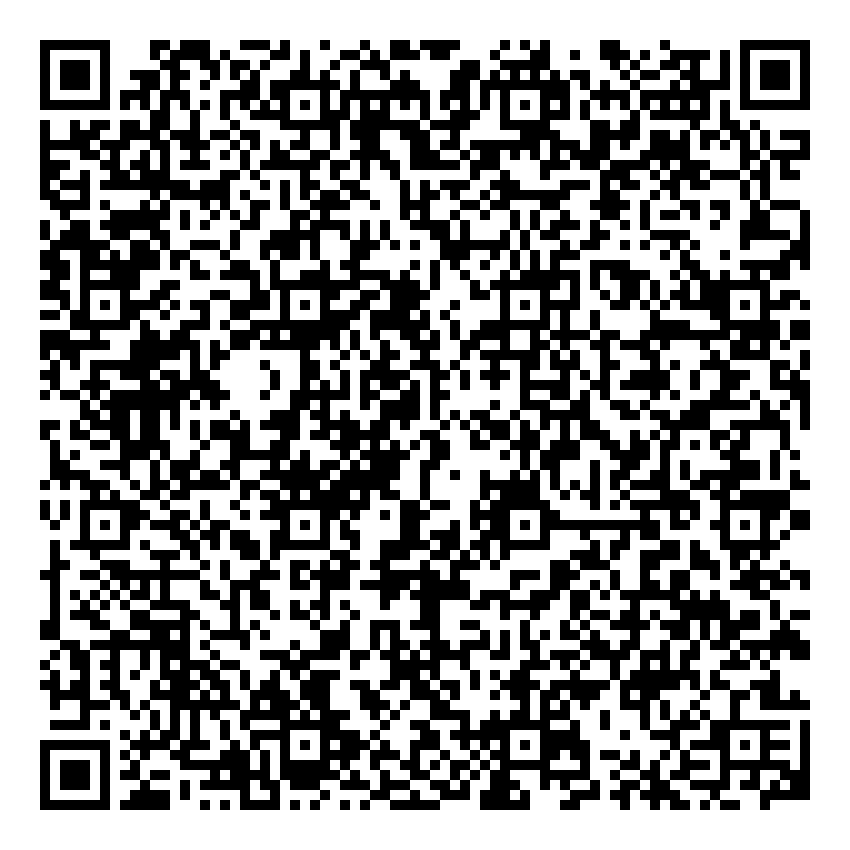
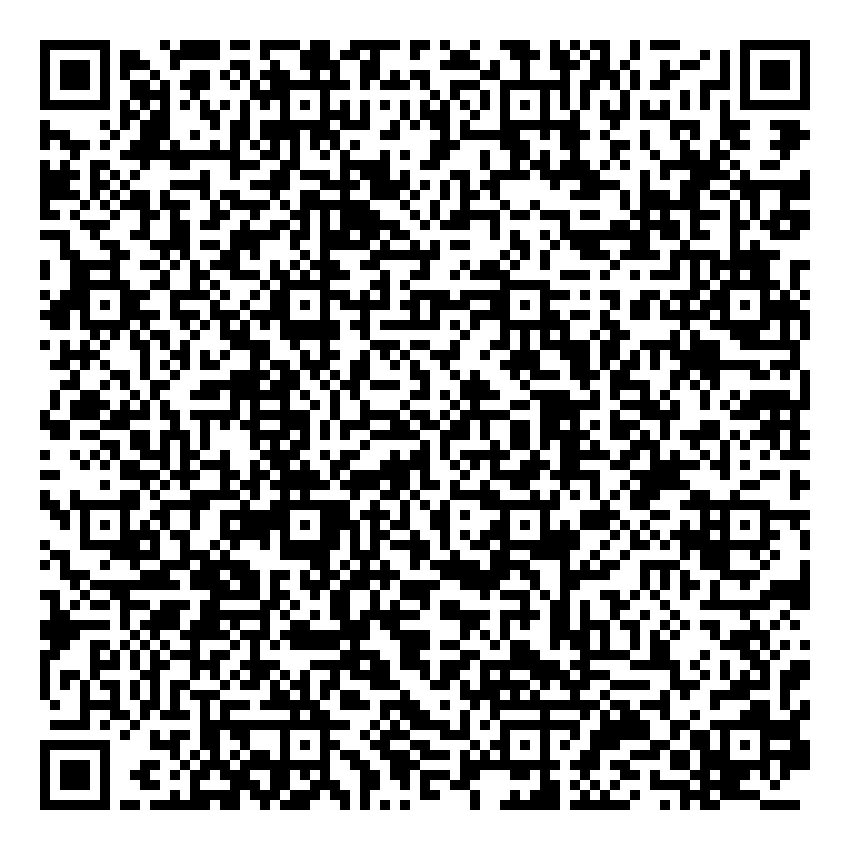
Cyclic qr scanning and screenshot

diff --git a/QRCodeFuzzer/index.js b/QRCodeFuzzer/index.js
@@ -3,23 +3,15 @@ const assert = require("assert");
 
 var fuzzer = require('./fuzzerFile.js')
 
-// {
-//   "platformName": "Android",
-//   "platformVersion": "11.0",
-//   "deviceName": "TestDevice",
-//   "app": "verificac19.apk",
-//   "appPackage": "it.ministerodellasalute.verificaC19",
-//  "appActivity": "ui.FirstActivity",
-//   "automationName": "UiAutomator2"
-// }
-
 const opts = {
   path: '/wd/hub',
   port: 4723,
   capabilities: {
     "platformName": "Android",
+    "platformVersion" : "9.0",
+    // "platformVersion": "10.0",
     // "platformVersion": "11.0",
-    "platformVersion": "12.0",
+    // "platformVersion": "12.0",
     "deviceName": "TestDevice",
     "app": "verificac19.apk",
     "appPackage": "it.ministerodellasalute.verificaC19",
@@ -34,79 +26,37 @@ const opts = {
 async function main () {
   const driver = await wdio.remote(opts); 
 
-  // let el2 = await driver.findElement("id", "it.ministerodellasalute.verificaC19:id/scan_mode_button");
-  // await driver.elementClick(el2.ELEMENT);
-  // let el3 = await driver.findElement("xpath", "/hierarchy/android.widget.FrameLayout/android.widget.LinearLayout/android.widget.FrameLayout/android.widget.FrameLayout/android.widget.FrameLayout/androidx.appcompat.widget.LinearLayoutCompat/android.widget.FrameLayout/android.widget.ListView/android.widget.CheckedTextView[1]");
-  // await driver.elementClick(el3.ELEMENT);
-  // // await driver.setTimeout({'pageLoad': 5000,'script': 1000 });
-  // let el4 = await driver.findElement("id", "it.ministerodellasalute.verificaC19:id/settings");
-  // await driver.elementClick(el4.ELEMENT);
-
   await driver.setTimeout({ 'implicit': 1000 });
 
-  // let el5 = await driver.findElement("id", "it.ministerodellasalute.verificaC19:id/totem_switch");
-  // await driver.elementClick(el5.ELEMENT);
-  // let el6 = await driver.findElement("id", "it.ministerodellasalute.verificaC19:id/back_image");
-  // await driver.elementClick(el6.ELEMENT);
-  // await driver.setTimeout({ 'implicit': 15000 });
-  // let el8 = await driver.findElement("id", "android:id/button1");
-  // await driver.elementClick(el8.ELEMENT);
-  // await driver.setTimeout({ 'implicit': 15000 });
-
-  // try {
-  //   let el8 = await driver.findElement("id", "android:id/button1");
-  //   await driver.elementClick(el8.ELEMENT);
-  // } catch (e) {}
+  // Click "Scan QR" button
   let el7 = await driver.findElement("id", "it.ministerodellasalute.verificaC19:id/qrButton");
   await driver.elementClick(el7.ELEMENT);
 
-  // let el9 = await driver.findElement("id", "com.android.permissioncontroller:id/permission_allow");
-  // await driver.elementClick(el9.ELEMENT);
+  while (true){
+    // Wait for the qr to be scanned
+    await driver.setTimeout({ 'implicit': 5000 });
 
-  // Wait for the qr to be scanned
-  await driver.setTimeout({ 'implicit': 1000 });
+    // Wait result window 
+    // ------------ FIXME: maybe to change 
+    await driver.findElement("id", "it.ministerodellasalute.verificaC19:id/scrollView3");
 
-  let el10 = await driver.findElement("xpath", "/hierarchy/android.widget.FrameLayout/android.widget.LinearLayout/android.widget.FrameLayout/android.widget.LinearLayout/android.widget.FrameLayout/android.view.ViewGroup/android.widget.FrameLayout/android.widget.FrameLayout/android.view.ViewGroup/android.widget.FrameLayout/android.view.ViewGroup/android.view.View");
-  await driver.elementClick(el10.ELEMENT);
-  let el11 = await driver.findElement("id", "it.ministerodellasalute.verificaC19:id/back_image");
-  await driver.elementClick(el11.ELEMENT);
-  let el12 = await driver.findElement("id", "it.ministerodellasalute.verificaC19:id/qrButton");
-  await driver.elementClick(el12.ELEMENT);
+    await driver.setTimeout({ 'implicit': 1000 });
 
-// TODO: checks and iterate ... 
+    // Take screenshot
+    let image = await driver.takeScreenshot();
 
-//   let el2 = driver.element("it.ministerodellasalute.verificaC19:id/scan_mode_button");
-// el2.click();
-// let el3 = driver.element("/hierarchy/android.widget.FrameLayout/android.widget.LinearLayout/android.widget.FrameLayout/android.widget.FrameLayout/android.widget.FrameLayout/androidx.appcompat.widget.LinearLayoutCompat/android.widget.FrameLayout/android.widget.ListView/android.widget.CheckedTextView[1]");
-// el3.click();
-// let el4 = driver.element("it.ministerodellasalute.verificaC19:id/settings");
-// el4.click();
-// let el5 = driver.element("it.ministerodellasalute.verificaC19:id/totem_switch");
-// el5.click();
-// let el6 = driver.element("it.ministerodellasalute.verificaC19:id/back_image");
-// el6.click();
-// let el7 = driver.element("it.ministerodellasalute.verificaC19:id/qrButton");
-// el7.click();
-// let el8 = driver.element("android:id/button1");
-// el8.click();
-// let el9 = driver.element("com.android.permissioncontroller:id/permission_allow_foreground_only_button");
-// el9.click();
-// let el10 = driver.element("/hierarchy/android.widget.FrameLayout/android.widget.LinearLayout/android.widget.FrameLayout/android.widget.LinearLayout/android.widget.FrameLayout/android.view.ViewGroup/android.widget.FrameLayout/android.widget.FrameLayout/android.view.ViewGroup/android.widget.FrameLayout/android.view.ViewGroup/android.view.View");
-// el10.click();
-// let el11 = driver.element("it.ministerodellasalute.verificaC19:id/back_image");
-// el11.click();
-// let el12 = driver.element("it.ministerodellasalute.verificaC19:id/qrButton");
-// el12.click();
+    // Save screenshot to file
+    let path = "screen/" + fuzzer.readFile().file + ".png";
+    require('fs').writeFile(path, image, 'base64', function(err) {
+        console.log(err);
+    });
 
+    // Update QR
+    fuzzer.requestNewQR();
 
-  // const field = await client.$("android.widget.EditText");
-  // await field.setValue("Hello World!");
-  // const value = await field.getText();
-
-  // assert.strictEqual(value,"Hello World!");
-
- // await driver.deleteSession();
-
+    // Go back
+    await driver.back();
+  }
 }
 
 

diff --git a/QRCodeFuzzer/display.py b/QRCodeFuzzer/display.py
@@ -60,6 +60,14 @@ def main():
 
     # Save img with the 1st qr-code
     cv2.imwrite("qr_result.png", qr_imgs[0])
+    
+    # Initialize JSON file
+    fuzzer = {}
+    fuzzer["status"] = 0
+    fuzzer["file"] = qr_files[0]
+    f = open(fuzzer_file, 'w', encoding='utf-8')
+    json.dump(fuzzer, f, ensure_ascii=False, indent=4)
+    f.close()
 
     # Start edit event-handler on the folder
     # (didn't work with the single file, dunno why)
